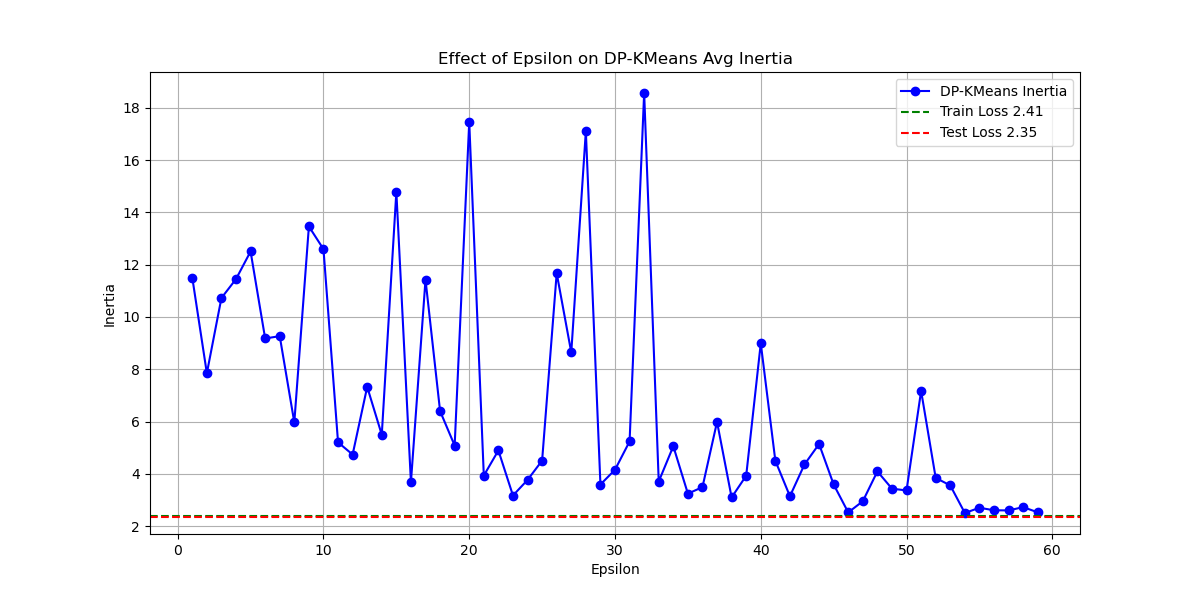
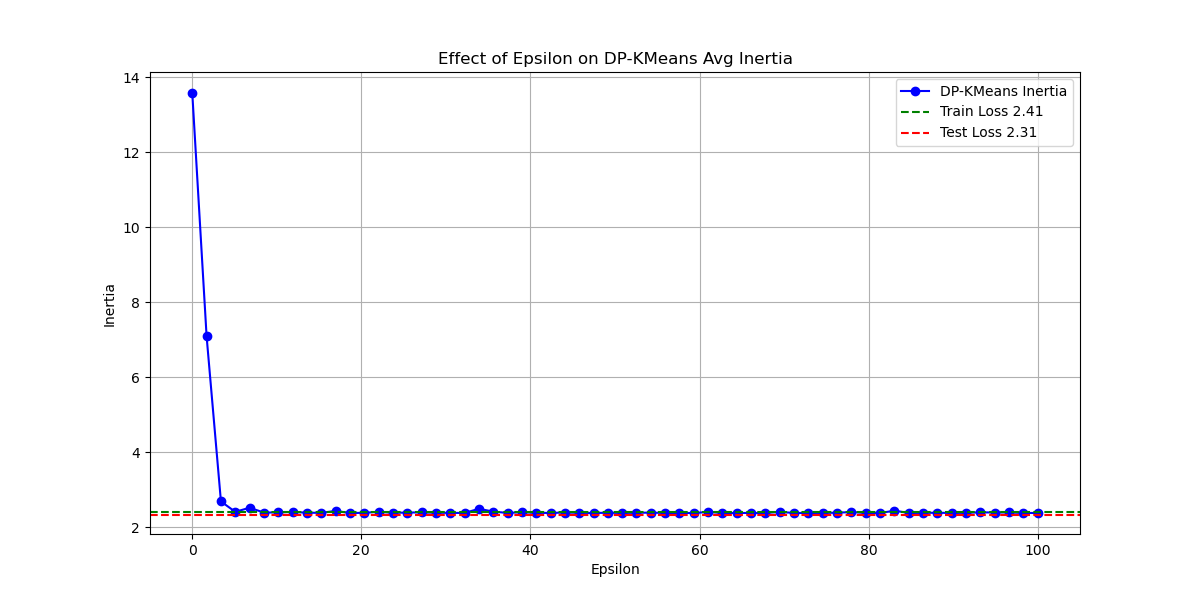
okay v

diff --git a/src/KMEANS/run.py b/src/KMEANS/run.py
@@ -46,7 +46,8 @@ def preprocess_data(cwd):
     data=pd.DataFrame(df["l1_distance"])
     os.remove(output_parquet_path)
     scaler = MinMaxScaler(feature_range=(-10, 10))
-    return scaler.fit_transform(data)
+    data=scaler.fit_transform(data)
+    return data
 
 def compute_kmeans_loss(data, k, test_size, random_seed):
     """Compute train and test loss using standard KMeans."""
@@ -57,16 +58,33 @@ def compute_kmeans_loss(data, k, test_size, random_seed):
     test_loss = kmeans.compute_inertia(test_data) / test_data.shape[0]
     return train_loss, test_loss
 
-def compute_dpkmeans_inertia(data, k, epsilons):
+def compute_dpkmeans_inertia(data, k, epsilons,tau):
     """Compute DP-KMeans inertia for different epsilon values."""
     inertias = []
     for eps in epsilons:
-        dp_kmeans = src.DPKMeans.DPKMeans(k=k, eps=eps, iterations=10)
+        dp_kmeans = src.DPKMeans.DPKMeans(k=k, eps=eps,tau=tau, iterations=10)
         dp_kmeans.fit(data)
         inertias.append(dp_kmeans.compute_inertia(data) / data.shape[0])
     return inertias
+def compute_dpkmeans_loss(data, k, tau_values,epsilon,test_size, random_seed):
+    """Compute DP-KMeans train and test loss for different tau values."""
+    train_losses = []
+    test_losses = []
+    
+    for tau in tau_values:
+        dp_kmeans = src.DPKMeans.DPKMeans(k=k, eps=epsilon, tau=tau, iterations=10)
+        train_data, test_data = train_test_split(data, test_size=test_size, random_state=random_seed)
+        dp_kmeans.fit(train_data)
+        train_loss = dp_kmeans.compute_inertia(train_data) / train_data.shape[0]
+        test_loss = dp_kmeans.compute_inertia(test_data) / test_data.shape[0]
+        
+        train_losses.append(train_loss)
+        test_losses.append(test_loss)
+    print(train_losses)
+    print(test_losses)
+    return train_losses, test_losses
 
-def plot_results(cwd,epsilons, inertias, train_loss, test_loss, output_path="dp_kmeans_inertia.png"):
+def plot_results(cwd, epsilons, inertias, train_loss, test_loss, tau_values, dp_train_losses, dp_test_losses, output_path="dp_kmeans_inertia.png"):
     """Plot and save the DP-KMeans inertia along with train and test loss."""
     plt.figure(figsize=(12, 6))
     plt.plot(epsilons, inertias, marker='o', linestyle='-', color='b', label='DP-KMeans Inertia')
@@ -83,18 +101,43 @@ def plot_results(cwd,epsilons, inertias, train_loss, test_loss, output_path="dp_
     print(f"Plot saved as {output_path}")
     plt.close()
 
+    # Plot train/test loss vs tau
+    plt.figure(figsize=(12, 6))
+    plt.plot(tau_values, dp_train_losses, marker='o', linestyle='-', color='g', label='DP-KMeans Train Loss')
+    plt.plot(tau_values, dp_test_losses, marker='o', linestyle='-', color='r', label='DP-KMeans Test Loss')
+    plt.xlabel("Tau")
+    plt.ylabel("Loss")
+    plt.title("Effect of Tau on DP-KMeans Train and Test Loss")
+    plt.legend()
+    plt.grid(True)
+    plt.savefig(os.path.join(cwd, '..', '..', 'viz', 'KMEANS', 'dp_kmeans_tau_loss.png'))
+    print("Plot saved as dp_kmeans_tau_loss.png")
+    plt.close()
+
 def main():
     cwd = os.getcwd()
     k = 3
     test_size = 0.2
     random_seed = 42
-    epsilons = [x for x in range(1, 60, 1)]
+    epsilons =np.linspace(0.01, 100, 60)
+    epsilon=1
+    tau = 10
     np.random.seed(random_seed)
     
+    # Preprocess the data
     data = preprocess_data(cwd)
+    
+    # Compute standard KMeans train/test loss
     train_loss, test_loss = compute_kmeans_loss(data, k, test_size, random_seed)
-    inertias = compute_dpkmeans_inertia(data, k, epsilons)
-    plot_results(cwd,epsilons, inertias, train_loss, test_loss,"synthetic_dp_kmeans_inertia")
+    
+    # Compute DP-KMeans inertia for different epsilon values
+    inertias = compute_dpkmeans_inertia(data, k, epsilons, tau)
+    
+    # Compute DP-KMeans train/test loss for different tau values
+    tau_values = np.linspace(.01, 10, 30)
+    dp_train_losses, dp_test_losses = compute_dpkmeans_loss(data, k, tau_values, epsilon, test_size, random_seed)
+    
 
+    plot_results(cwd, epsilons, inertias, train_loss, test_loss, tau_values, dp_train_losses, dp_test_losses, "synthetic_dp_kmeans_inertia")
 if __name__ == "__main__":
     main()

diff --git a/src/KMEANS/src/DPKMeans.py b/src/KMEANS/src/DPKMeans.py
@@ -1,66 +1,31 @@
 import numpy as np
 
 class DPKMeans:
-    def __init__(self, k, eps, iterations=5):
+    def __init__(self, k, eps,tau, iterations=5):
         self.k = k
         self.iterations = iterations
         self.centroids = None
         self.epsilon = eps
+        self.epsilon_iter=eps/iterations
+        self.tau=tau
 
-    def laplace_noise(self, sensitivity, epsilon):
+    def laplace_noise(self, sensitivity,epsilon):
         """Generate Laplace noise given sensitivity and epsilon."""
-        scale = sensitivity / self.epsilon
+        scale = sensitivity / epsilon
         return np.random.laplace(0, scale)
 
     def initialize_centroids(self, data):
-        """Initialize centroids using sphere packing."""
+        """Initialize centroids randomly."""
         n, d = data.shape
-        a = 1  # Start with an initial guess for the radius a
-        centroids = []
-        max_attempts = 1000  # Maximum number of attempts to find valid centroids
         
-        # Function to check if a new centroid satisfies the conditions
-        def is_valid(new_centroid, centroids, a, data_min, data_max):
-            # Check if centroid is at least 'a' away from the borders
-            if np.any(new_centroid <= data_min + a) or np.any(new_centroid >= data_max - a):
-                return False
-            # Check if centroid is at least '2a' away from other centroids
-            for centroid in centroids:
-                if np.linalg.norm(new_centroid - centroid) < 2 * a:
-                    return False
-            return True
-        
-        # Binary search for the largest valid radius 'a'
-        data_min = np.min(data, axis=0)
-        data_max = np.max(data, axis=0)
-        while True:
-            centroids = []
-            attempts = 0
-            for _ in range(self.k):
-                while attempts < max_attempts:
-                    # Randomly generate a new candidate centroid
-                    new_centroid = np.random.uniform(data_min + a, data_max - a, size=d)
-                    if is_valid(new_centroid, centroids, a, data_min, data_max):
-                        centroids.append(new_centroid)
-                        break
-                    attempts += 1
-                if attempts >= max_attempts:
-                    break
+        # Randomly pick k unique points from the data to be the initial centroids
+        indices = np.random.choice(n, self.k, replace=False)
+        self.centroids = data[indices]
 
-            # If we successfully picked all k centroids, we stop and use this radius 'a'
-            if len(centroids) == self.k:
-                self.centroids = np.array(centroids)
-                break
-            else:
-                # If we failed, try a smaller radius and try again
-                a /= 2  # Halve the radius
 
     def fit(self, data):
         """Perform standard k-means clustering with differential privacy."""
         n, d = data.shape
-        t = 5
-        r = 10
-        sensitivity = (d * r + 1) * t
 
         # Step 1: Initialize centroids using sphere packing
         self.initialize_centroids(data)
@@ -78,9 +43,10 @@ class DPKMeans:
             for j in range(self.k):
                 if clusters[j]:  # Avoid division by zero
                     # Compute the mean for each cluster and add Laplace noise
-                    mean = np.mean(data[clusters[j]], axis=0)
-                    noise = np.array([self.laplace_noise(sensitivity, self.epsilon) for _ in range(d)])
-                    new_centroids[j] = mean + noise
+                    clipped_data = np.clip(data[clusters[j]], -self.tau, self.tau)
+                    noisy_sum = np.sum(clipped_data, axis=0)+self.laplace_noise(self.tau*2,self.epsilon_iter)
+                    noisy_count=max(1,clipped_data.shape[0]+self.laplace_noise(1,self.epsilon_iter))
+                    new_centroids[j] = noisy_sum/noisy_count
 
             self.centroids = new_centroids
 

diff --git a/src/KMEANS/src/kmeans.py b/src/KMEANS/src/kmeans.py
@@ -7,47 +7,13 @@ class KMeans:
         self.centroids = None
     
     def initialize_centroids(self, data):
-        """Initialize centroids using sphere packing."""
+        """Initialize centroids randomly."""
         n, d = data.shape
-        a = 1  # Start with an initial guess for the radius a
-        centroids = []
-        max_attempts = 1000  # Maximum number of attempts to find valid centroids
         
-        # Function to check if a new centroid satisfies the conditions
-        def is_valid(new_centroid, centroids, a, data_min, data_max):
-            # Check if centroid is at least 'a' away from the borders
-            if np.any(new_centroid <= data_min + a) or np.any(new_centroid >= data_max - a):
-                return False
-            # Check if centroid is at least '2a' away from other centroids
-            for centroid in centroids:
-                if np.linalg.norm(new_centroid - centroid) < 2 * a:
-                    return False
-            return True
-        
-        # Binary search for the largest valid radius 'a'
-        data_min = np.min(data, axis=0)
-        data_max = np.max(data, axis=0)
-        while True:
-            centroids = []
-            attempts = 0
-            for _ in range(self.k):
-                while attempts < max_attempts:
-                    # Randomly generate a new candidate centroid
-                    new_centroid = np.random.uniform(data_min + a, data_max - a, size=d)
-                    if is_valid(new_centroid, centroids, a, data_min, data_max):
-                        centroids.append(new_centroid)
-                        break
-                    attempts += 1
-                if attempts >= max_attempts:
-                    break
+        # Randomly pick k unique points from the data to be the initial centroids
+        indices = np.random.choice(n, self.k, replace=False)
+        self.centroids = data[indices]
 
-            # If we successfully picked all k centroids, we stop and use this radius 'a'
-            if len(centroids) == self.k:
-                self.centroids = np.array(centroids)
-                break
-            else:
-                # If we failed, try a smaller radius and try again
-                a /= 2  # Halve the radius
     def fit(self, data):
         """Perform standard k-means clustering."""
         n, d = data.shape
